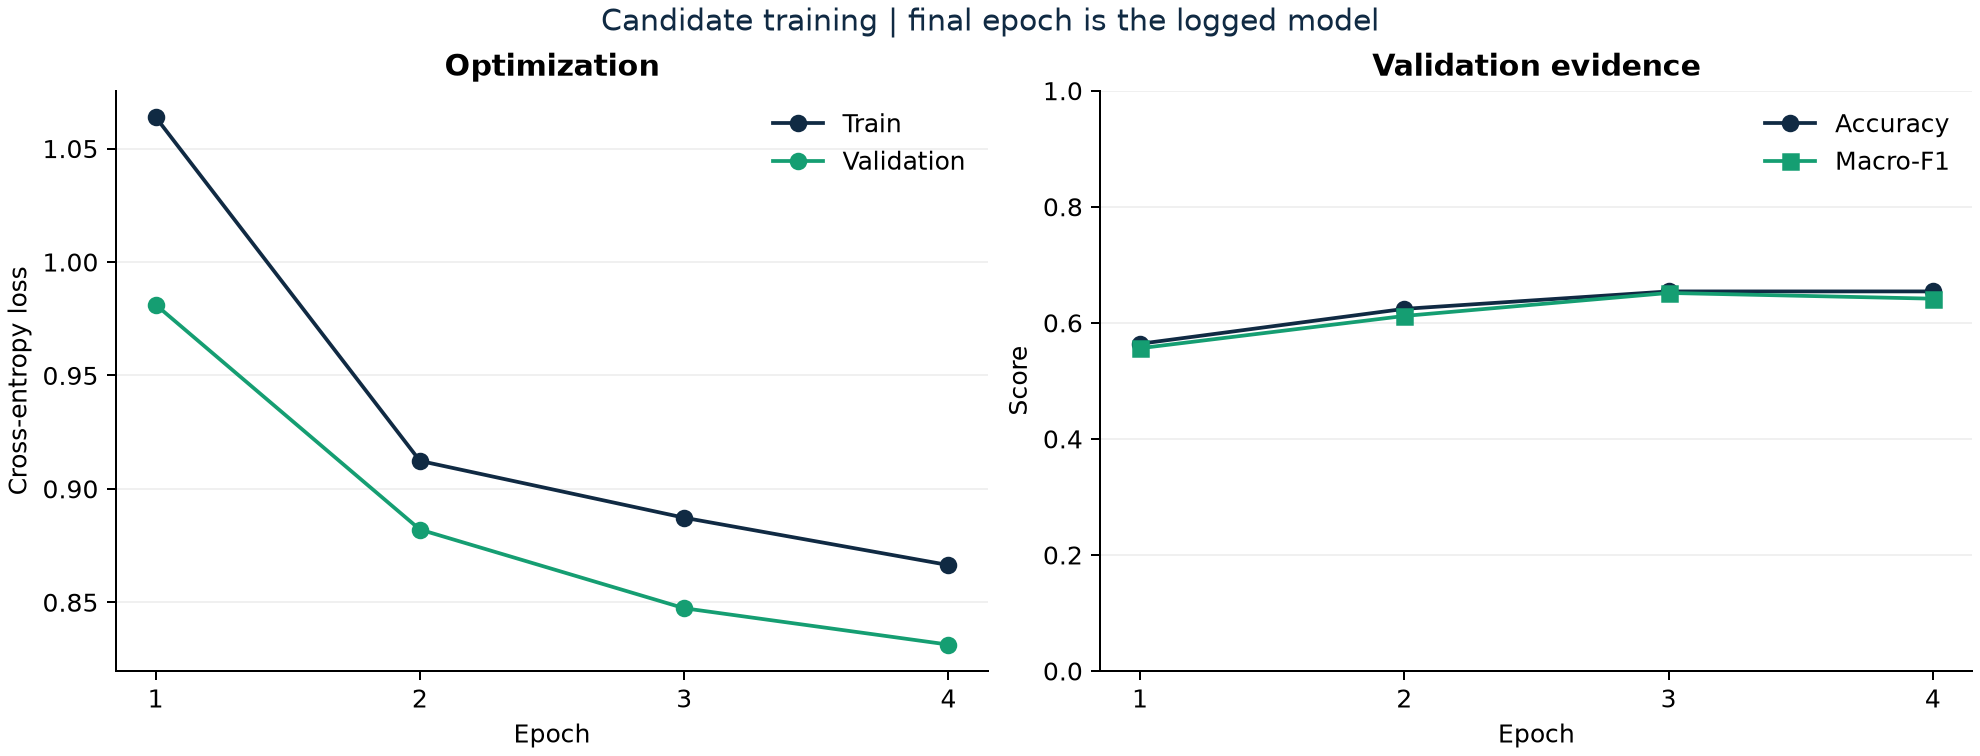
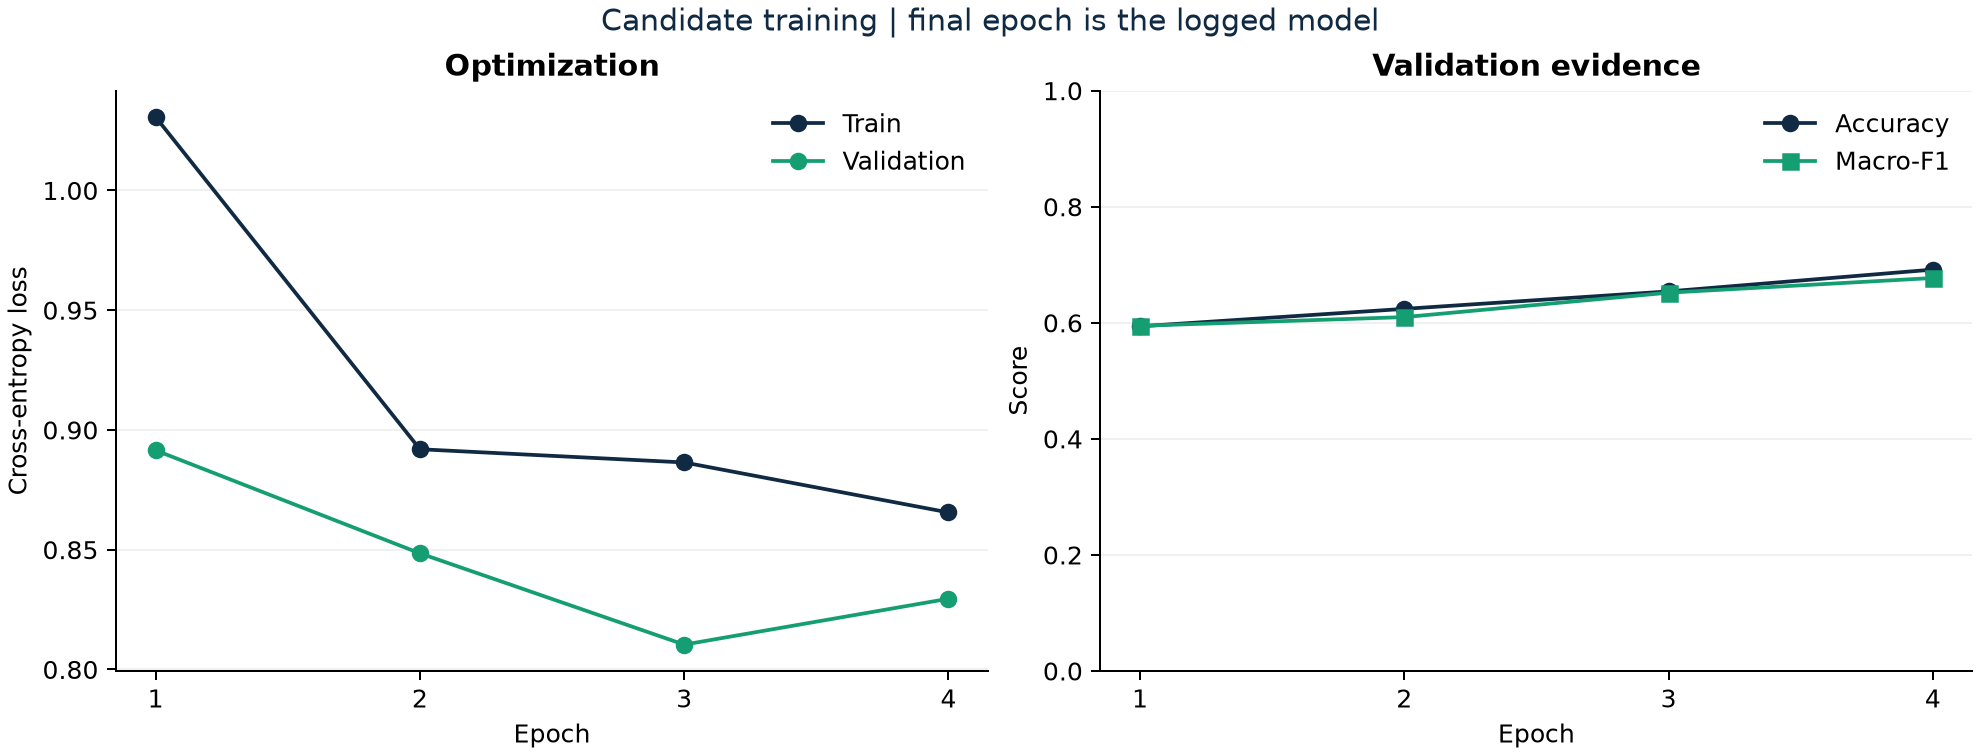
Record Run B and the recomputation checks

diff --git a/LAB_REPORT.md b/LAB_REPORT.md
@@ -292,7 +292,9 @@ MLFlow page opened succesfully via (`uv run --locked mlflow server --host 127.0.
 ### 6.3 Run and check the training stages
 
 1. Run A (baseline)
+```
 MLflow Run ID : 519d86318a0d431fb3f9fc8f97786329
+```
 
 2. Re-run for verification (unchanged)
 ```
@@ -303,8 +305,22 @@ Stage 'train' didn't change, skipping
 Data and pipelines are up to date.
 ```
 
-3. 
-
+3. after add comment to src/validate_data.py
+```
+MLflow Run ID : b961546f67de49e795b49088170cab40
+> it validates reruns, the rest are reused
+```
 
 ### 6.4 Verify the learning-rate change
 
+After set train.learning_rate: 0.0003 in params.yaml
+```
+(Run B)
+MLflow Run ID : f57fed6025364ee5bc746d680b822ee1
+```
+
+Check | VALIDATE | PREPARE | TRAIN | EVALUATE | Terminal lines
+|---|---|---|---|---|---|
+Rerun with no change | REUSED | REUSED | REUSED | NOT RUN | Data and pipelines are up to date
+Add comment to `src/validate_data.py` | RERUN | REUSED | REUSED | NOT RUN | Running stage 'validate'
+Learning rate set to 0.0003 (Run B) | REUSED | REUSED | RERUN | NOT RUN | Running stage 'train'
